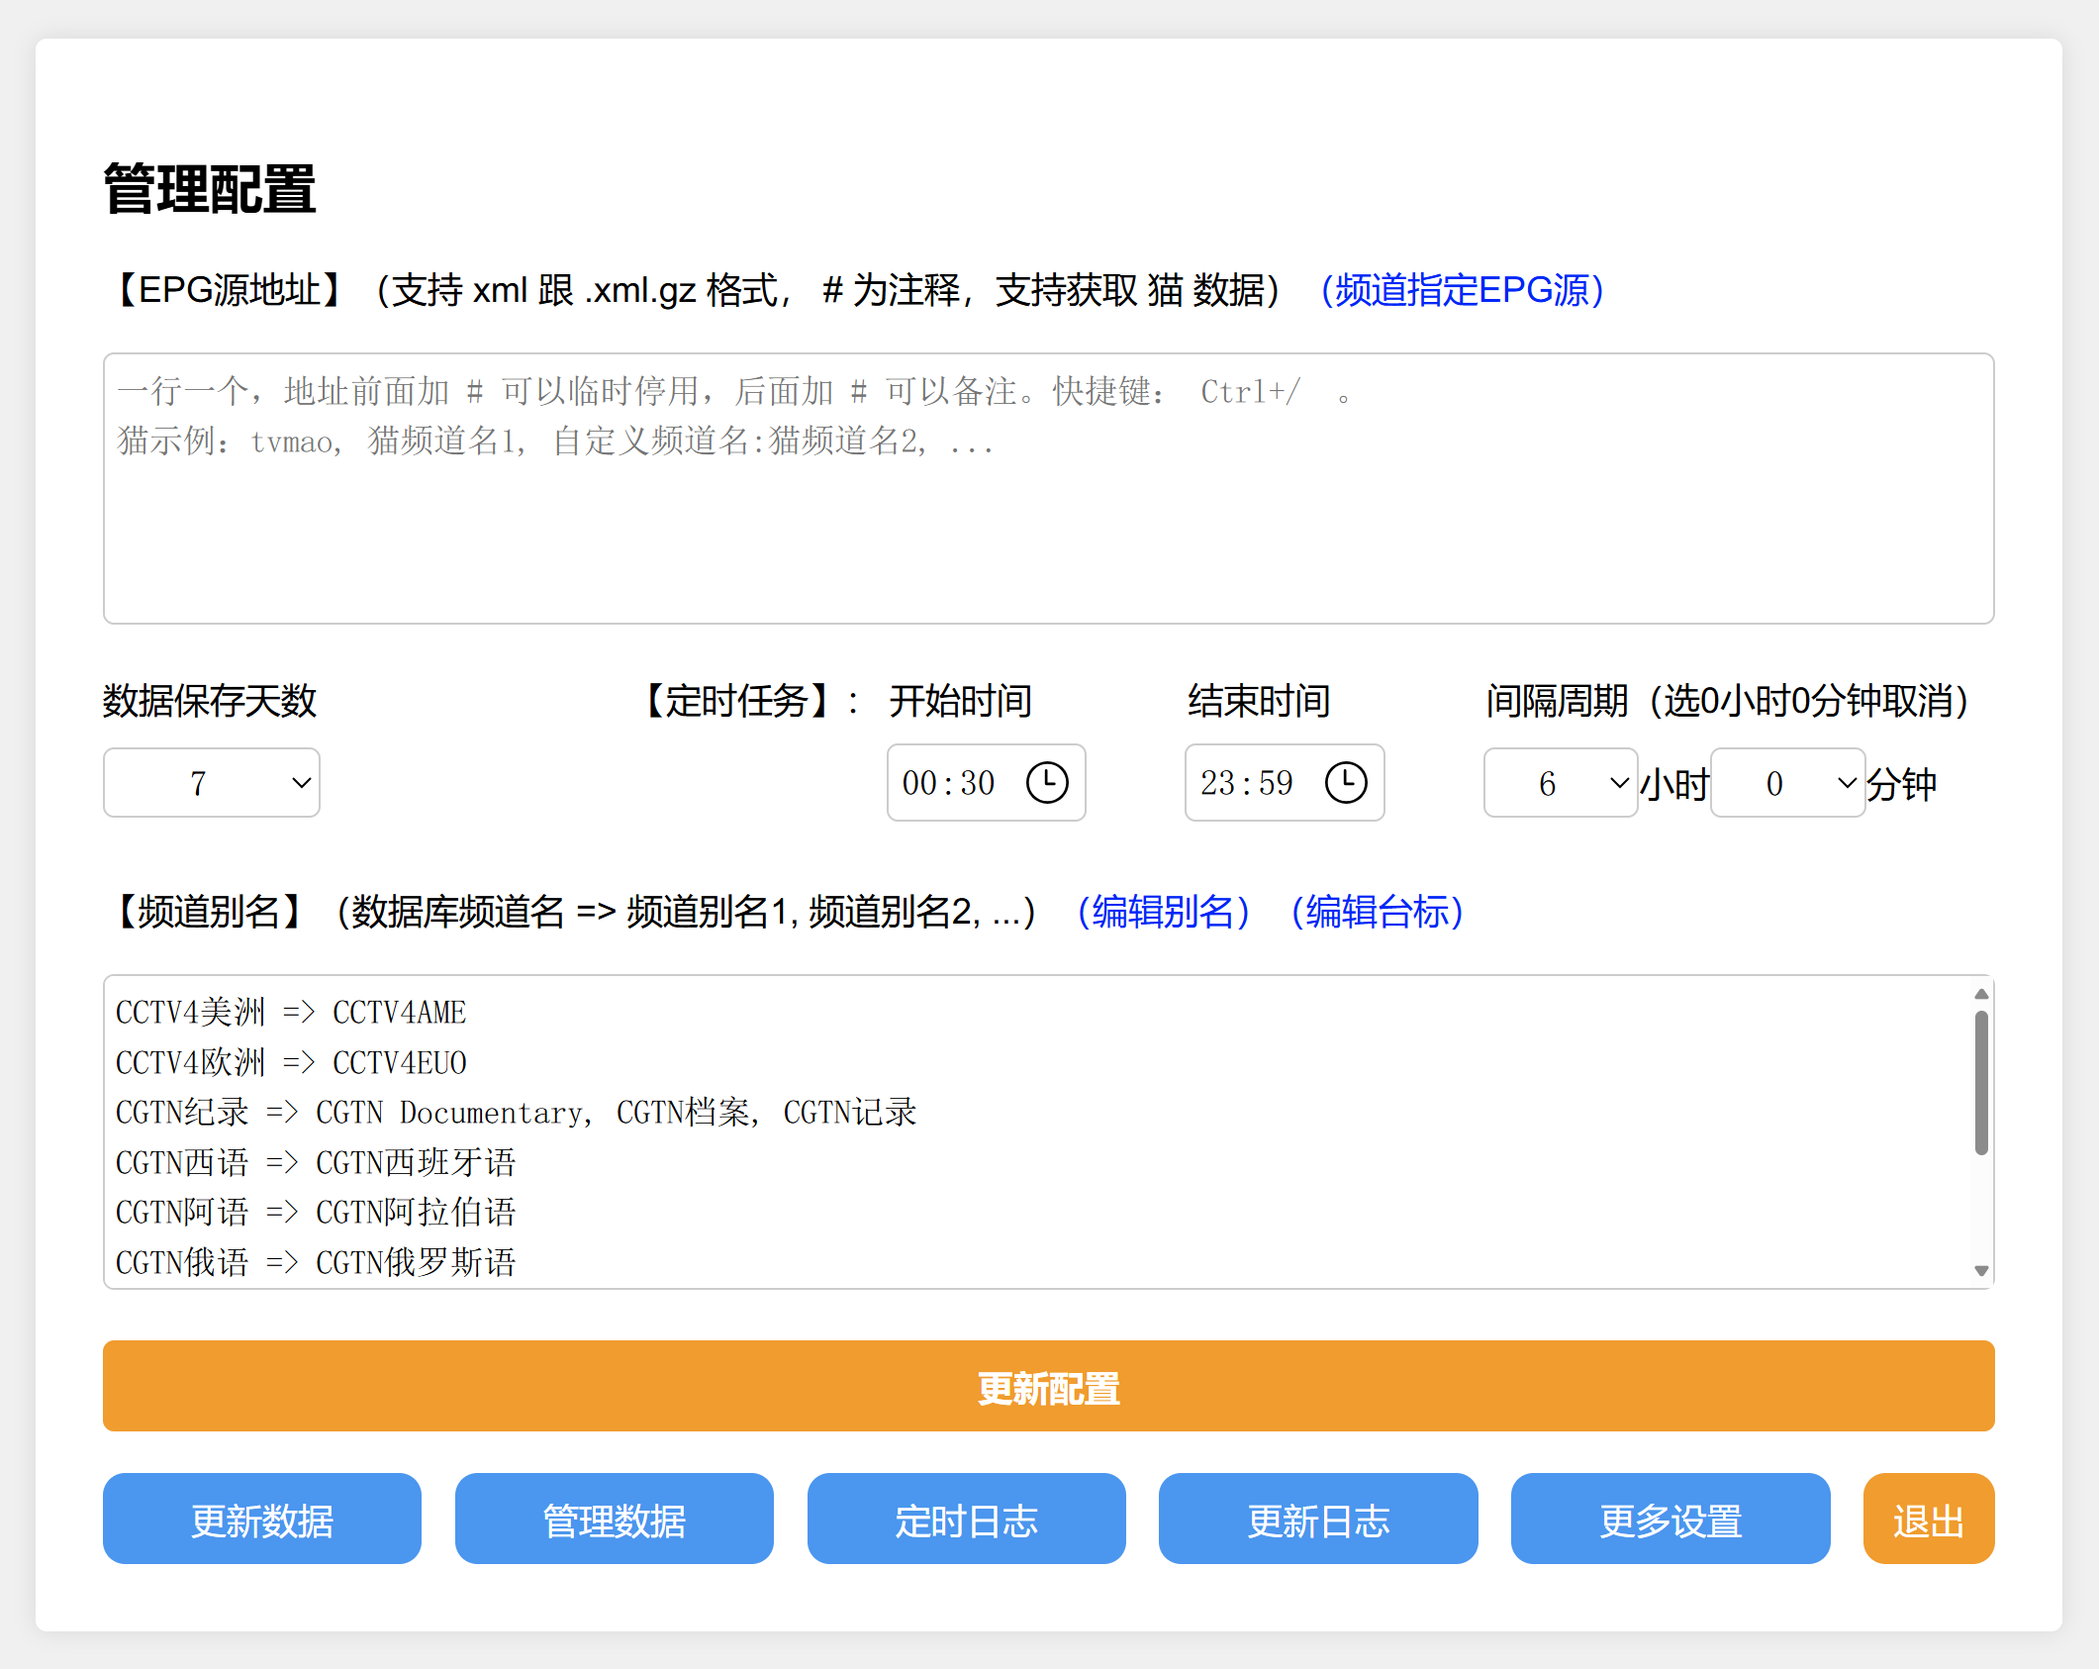
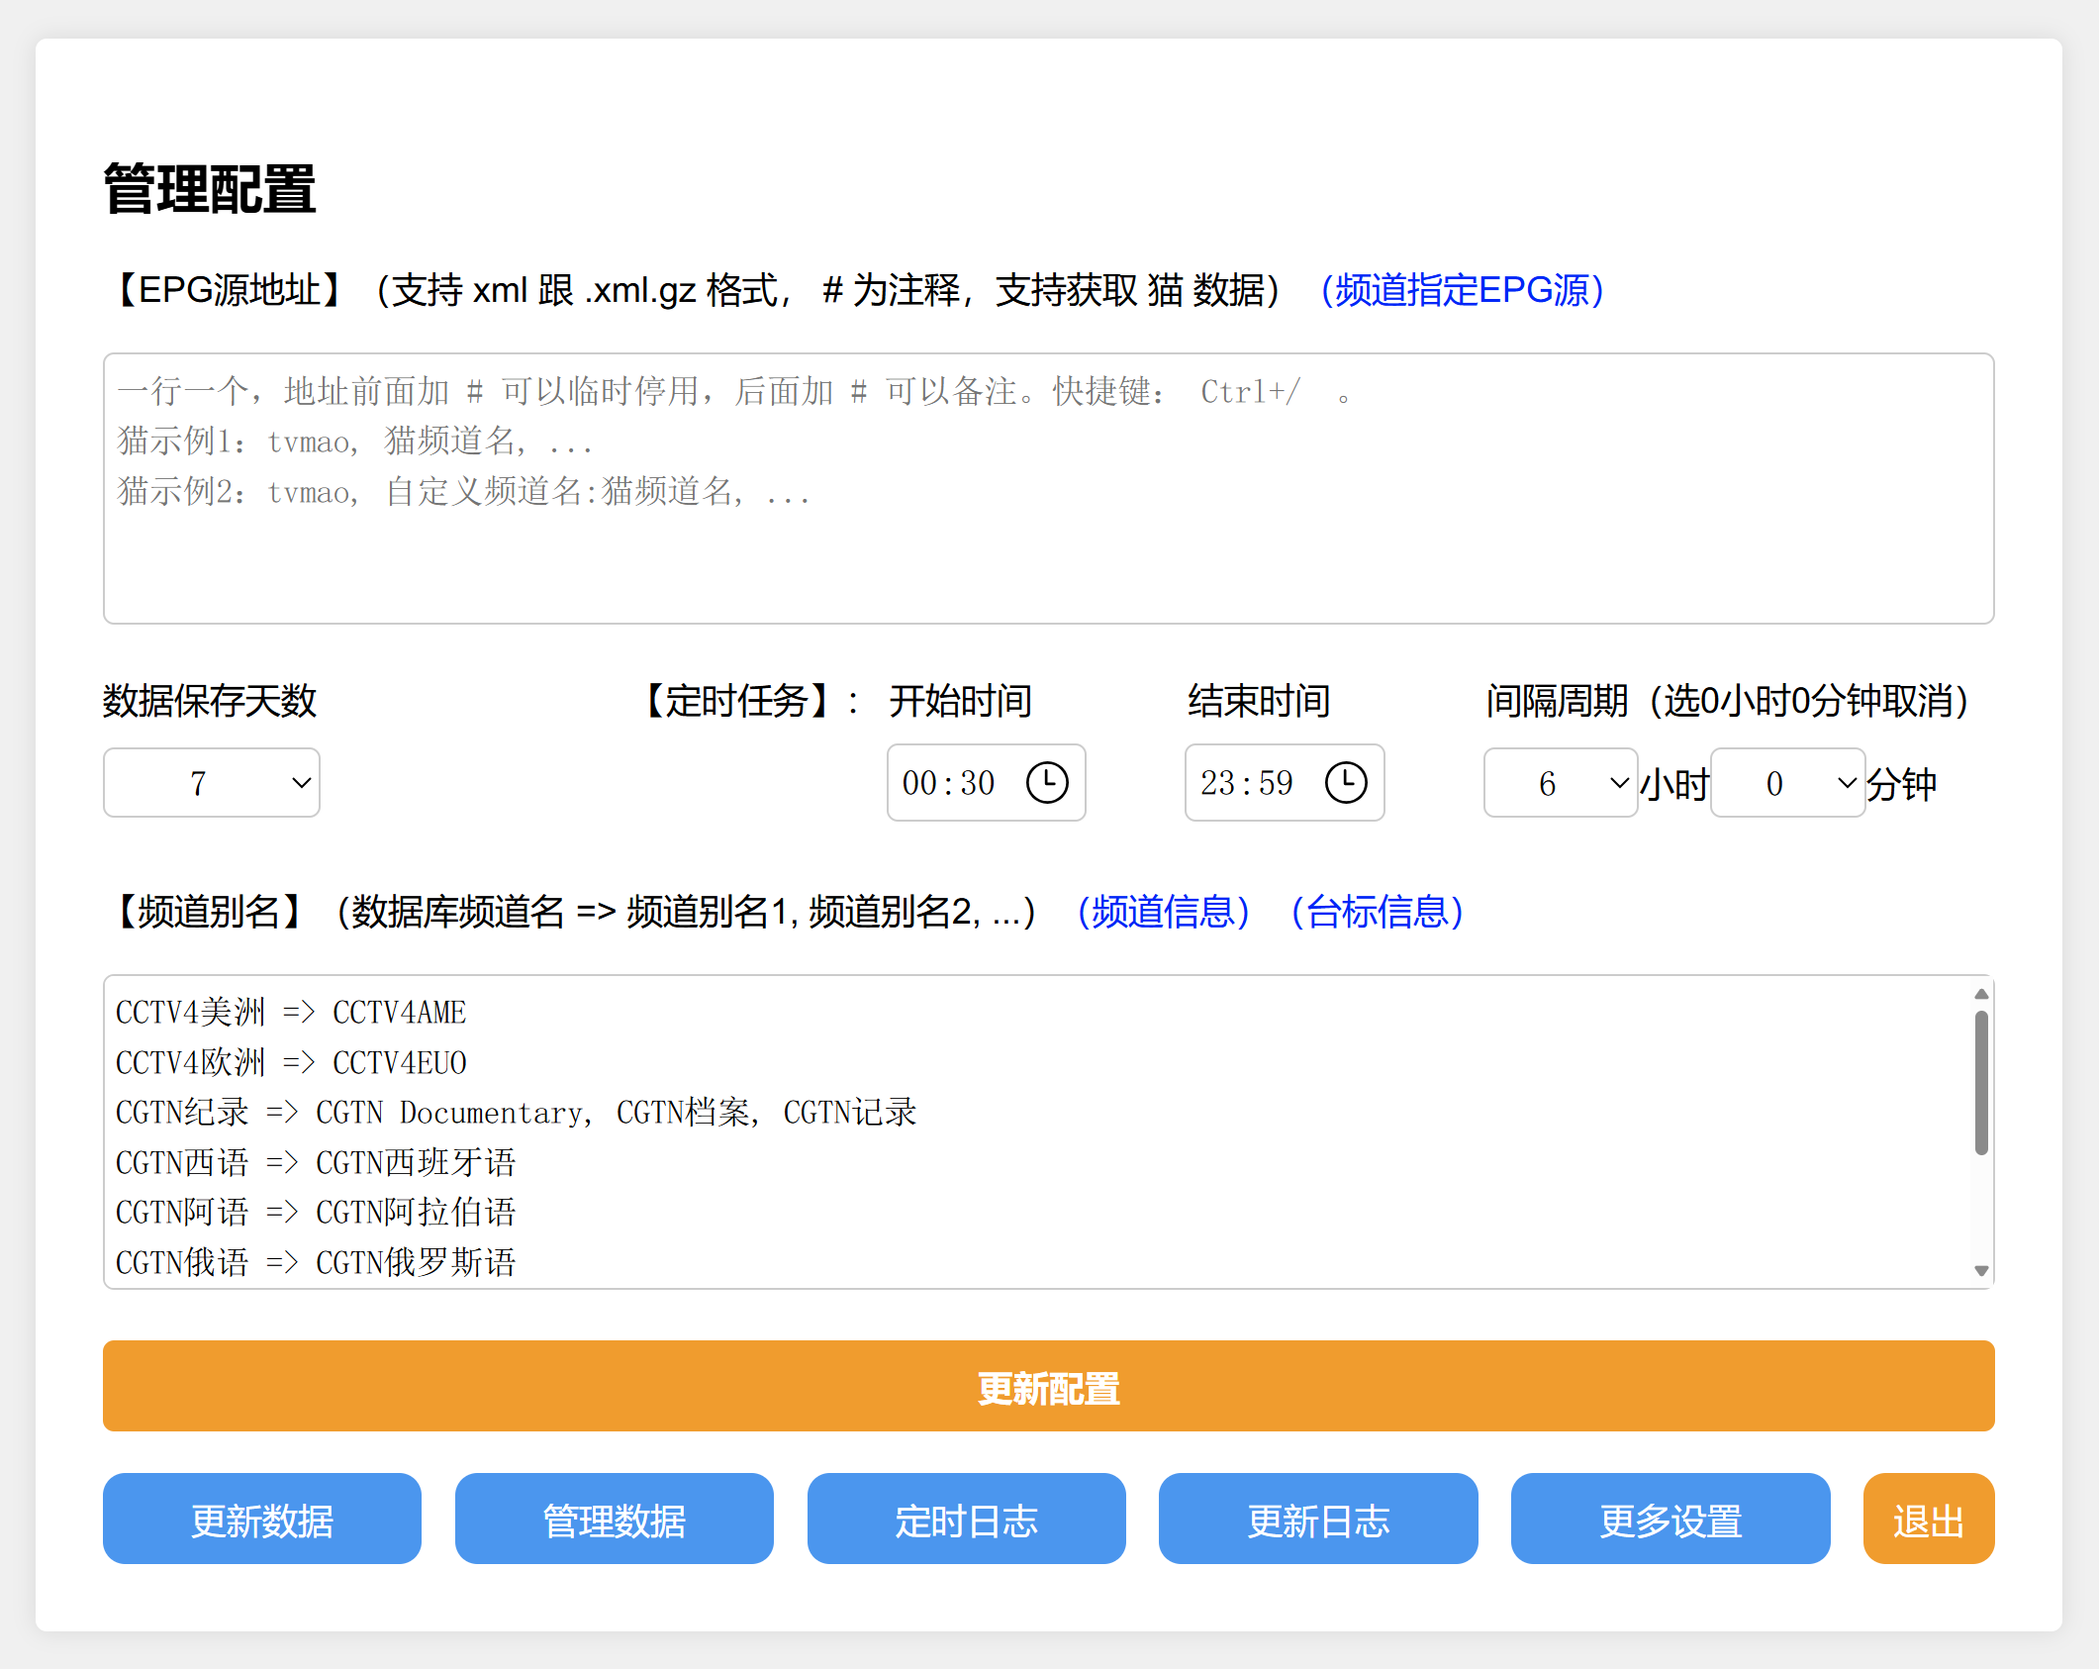
新增：查看频道节目表

Changed region(s): [[0.0622, 0.2467, 0.4356, 0.3084], [0.4979, 0.5243, 0.5912, 0.5552], [0.6223, 0.5243, 0.6846, 0.5552]]

diff --git a/epg/js/manage.js b/epg/js/manage.js
@@ -135,42 +135,63 @@ if (importMessage) {
     displayModal(importMessage);
 }
 
-function showModal(type, $popup = true) {
+function showModal(type, $popup = true, $data = '') {
     var modal, logSpan, logContent;
     switch (type) {
+        case 'epg':
+            modal = document.getElementById("epgModal");
+            logSpan = document.getElementsByClassName("close")[1];
+            fetchData("manage.php?get_epg_by_channel=true&channel=" + encodeURIComponent($data.channel) + "&date=" + $data.date, updateEpgContent);
+
+            // 更新日期的点击事件
+            const updateDate = function(offset) {
+                const currentDate = new Date(document.getElementById("epgDate").innerText);
+                currentDate.setDate(currentDate.getDate() + offset);
+                const newDateString = currentDate.toISOString().split('T')[0];
+                fetchData(`manage.php?get_epg_by_channel=true&channel=${encodeURIComponent($data.channel)}&date=${newDateString}`, updateEpgContent);
+                document.getElementById("epgDate").innerText = newDateString;
+            };
+
+            // 前一天和后一天的点击事件
+            document.getElementById('prevDate').onclick = () => updateDate(-1);
+            document.getElementById('nextDate').onclick = () => updateDate(1);
+
+            document.getElementById("channelModal").style.display = "none";
+            break;
+
         case 'update':
             modal = document.getElementById("updatelogModal");
-            logSpan = document.getElementsByClassName("close")[1];
+            logSpan = document.getElementsByClassName("close")[2];
             fetchData('manage.php?get_update_logs=true', updateLogTable);
             break;
         case 'cron':
             modal = document.getElementById("cronlogModal");
-            logSpan = document.getElementsByClassName("close")[2];
+            logSpan = document.getElementsByClassName("close")[3];
             fetchData('manage.php?get_cron_logs=true', updateCronLogContent);
             break;
         case 'channel':
             modal = document.getElementById("channelModal");
-            logSpan = document.getElementsByClassName("close")[3];
+            logSpan = document.getElementsByClassName("close")[4];
             fetchData('manage.php?get_channel=true', updateChannelList);
             break;
         case 'icon':
             modal = document.getElementById("iconModal");
-            logSpan = document.getElementsByClassName("close")[4];
+            logSpan = document.getElementsByClassName("close")[5];
             fetchData('manage.php?get_icon=true', updateIconList);
             break;
         case 'allicon':
             modal = document.getElementById("iconModal");
-            logSpan = document.getElementsByClassName("close")[4];
+            logSpan = document.getElementsByClassName("close")[5];
             fetchData('manage.php?get_icon=true&get_all_icon=true', updateIconList);
             break;
         case 'channelbindepg':
             modal = document.getElementById("channelBindEPGModal");
-            logSpan = document.getElementsByClassName("close")[5];
+            logSpan = document.getElementsByClassName("close")[6];
             fetchData('manage.php?get_channel_bind_epg=true', updateChannelBindEPGList);
             break;
         case 'channelmatch':
             modal = document.getElementById("channelMatchModal");
-            logSpan = document.getElementsByClassName("close")[6];
+            logSpan = document.getElementsByClassName("close")[7];
             fetchData('manage.php?get_channel_match=true', updateChannelMatchList);
             document.getElementById("moreSettingModal").style.display = "none";
             break;
@@ -179,7 +200,7 @@ function showModal(type, $popup = true) {
             updateMySQLFields();
             document.getElementById('db_type').addEventListener('change', updateMySQLFields);
             modal = document.getElementById("moreSettingModal");
-            logSpan = document.getElementsByClassName("close")[7];
+            logSpan = document.getElementsByClassName("close")[8];
             fetchData('manage.php?get_gen_list=true', updateGenList);
             break;
         default:
@@ -190,18 +211,20 @@ function showModal(type, $popup = true) {
         return;
     }
     modal.style.display = "block";
-    logSpan.onclick = function() {
+
+    function handleModalClose() {
         modal.style.display = "none";
         if (type === 'channelmatch') {
             showModal('moresetting');
+        } else if (type === 'epg') {
+            showModal('channel');
         }
     }
+    
+    logSpan.onclick = handleModalClose;
     window.onmousedown = function(event) {
         if (event.target === modal) {
-            modal.style.display = "none";
-            if (type === 'channelmatch') {
-                showModal('moresetting');
-            }
+            handleModalClose();
         }
     }
 }
@@ -214,6 +237,14 @@ function fetchData(endpoint, callback) {
             console.error('Error fetching log:', error);
             callback([]);
         });
+}
+
+function updateEpgContent(epgData) {
+    document.getElementById('epgTitle').innerHTML = epgData.channel;
+    document.getElementById('epgDate').innerHTML = epgData.date;
+    var epgContent = document.getElementById("epgContent");
+    epgContent.value = epgData.epg;
+    epgContent.scrollTop = 0;
 }
 
 function updateLogTable(logData) {
@@ -380,7 +411,10 @@ function filterChannels(type) {
         if (String(searchText).toUpperCase().includes(input)) {
             const row = document.createElement('tr');
             if (type === 'channel') {
-                row.innerHTML = `<td>${item.original}</td><td contenteditable="true">${item.mapped || ''}</td>`;
+                row.innerHTML = `<td style="color: blue; cursor: pointer;" 
+                                    onclick="showModal('epg', true, { channel: '${item.original}', date: '${new Date().toISOString().split('T')[0]}' })">
+                                    ${item.original} </td>
+                                <td contenteditable="true">${item.mapped || ''}</td>`;
                 row.querySelector('td[contenteditable]').addEventListener('input', function() {
                     item.mapped = this.textContent.trim();
                     document.getElementById(tableId).dataset[dataAttr] = JSON.stringify(allData);

diff --git a/epg/manage.php b/epg/manage.php
@@ -264,6 +264,8 @@ try {
             $action = 'get_cron_logs';
         } elseif (isset($_GET['get_channel'])) {
             $action = 'get_channel';
+        } elseif (isset($_GET['get_epg_by_channel'])) {
+            $action = 'get_epg_by_channel';
         } elseif (isset($_GET['get_icon'])) {
             $action = 'get_icon';
         } elseif (isset($_GET['get_channel_bind_epg'])) {
@@ -314,6 +316,25 @@ try {
                     'channels' => $mappedChannels,
                     'count' => count($mappedChannels)
                 ];
+                break;
+
+            case 'get_epg_by_channel':
+                // 查询
+                $channel = urldecode($_GET['channel']);
+                $date = urldecode($_GET['date']);
+                $stmt = $db->prepare("SELECT epg_diyp FROM epg_data WHERE channel = :channel AND date = :date");
+                $stmt->execute([':channel' => $channel, ':date' => $date]);
+                $result = $stmt->fetch(PDO::FETCH_ASSOC); // 获取单条结果            
+                if ($result) {
+                    $epgOutput = "";
+                    $epgData = json_decode($result['epg_diyp'], true);                    
+                    foreach ($epgData['epg_data'] as $epgItem) {
+                        $epgOutput .= "{$epgItem['start']} {$epgItem['title']}\n";
+                    }            
+                    $dbResponse = ['channel' => $channel, 'date' => $date, 'epg' => trim($epgOutput)];
+                } else {
+                    $dbResponse = ['channel' => $channel, 'date' => $date, 'epg' => '无节目信息'];
+                }
                 break;
 
             case 'get_icon':
@@ -714,7 +735,8 @@ try {
 
         <label for="xml_urls">【EPG源地址】（支持 xml 跟 .xml.gz 格式， # 为注释，支持获取 猫 数据）</label><span id="channelbind" onclick="showModal('channelbindepg')" style="color: blue; cursor: pointer;">（频道指定EPG源）</span><br><br>
         <textarea placeholder="一行一个，地址前面加 # 可以临时停用，后面加 # 可以备注。快捷键： Ctrl+/  。
-猫示例：tvmao, 猫频道名1, 自定义频道名:猫频道名2, ..." id="xml_urls" name="xml_urls" style="height: 122px;"><?php echo implode("\n", array_map('trim', $Config['xml_urls'])); ?></textarea><br><br>
+猫示例1：tvmao, 猫频道名, ...
+猫示例2：tvmao, 自定义频道名:猫频道名, ..." id="xml_urls" name="xml_urls" style="height: 122px;"><?php echo implode("\n", array_map('trim', $Config['xml_urls'])); ?></textarea><br><br>
 
         <div class="form-row">
             <label for="days_to_keep" class="label-days-to-keep">数据保存天数</label>
@@ -754,7 +776,7 @@ try {
         <div class="flex-container">
             <div class="flex-item" style="width: 100%;">
                 <label>
-                    【频道别名】（数据库频道名 => 频道别名1, 频道别名2, ...）<span id="dbChannelName" onclick="showModal('channel')" style="color: blue; cursor: pointer;">（编辑别名）</span><span id="dbChannelName" onclick="showModal('icon')" style="color: blue; cursor: pointer;">（编辑台标）</span>
+                    【频道别名】（数据库频道名 => 频道别名1, 频道别名2, ...）<span id="dbChannelName" onclick="showModal('channel')" style="color: blue; cursor: pointer;">（频道信息）</span><span id="dbChannelName" onclick="showModal('icon')" style="color: blue; cursor: pointer;">（台标信息）</span>
                 </label><br><br>
                 <textarea id="channel_mappings" name="channel_mappings" style="height: 142px;"><?php echo implode("\n", array_map(function($search, $replace) { return $search . ' => ' . $replace; }, array_keys($Config['channel_mappings']), $Config['channel_mappings'])); ?></textarea><br><br>
             </div>
@@ -785,6 +807,19 @@ try {
     <div class="modal-content config-modal-content">
         <span class="close">&times;</span>
         <p id="modalMessage"></p>
+    </div>
+</div>
+
+<!-- 频道 EPG 模态框 -->
+<div id="epgModal" class="modal">
+    <div class="modal-content epg-modal-content">
+        <span class="close">&times;</span>
+        <h2 id="epgTitle">频道名</h2>
+        <span id="epgDate">日期</span>
+        <span id="prevDate" style="cursor: pointer; color: blue; margin-left: 10px;">&#9664; 前一天</span>
+        <span id="nextDate" style="cursor: pointer; color: blue; margin-left: 10px;">后一天 &#9654;</span>
+        <br><br>
+        <textarea id="epgContent" readonly style="width: 100%; height: 400px;"></textarea>
     </div>
 </div>
 
@@ -856,11 +891,11 @@ try {
             </div>
             <div class="tooltip" style="width:auto; margin-right: 10px;">
                 <button id="deleteUnusedIcons" type="button" onclick="deleteUnusedIcons()">清理</button>
-                <span class="tooltiptext">清理未在列表中<br>使用的台标文件</span>
+                <span class="tooltiptext">清理未使用<br>服务器台标文件</span>
             </div>
             <div class="tooltip" style="width:auto; margin-right: 10px;">
                 <button id="showAllIcons" type="button" onclick="showModal('allicon')">全显</button>
-                <span class="tooltiptext">同时显示<br>无节目表内置台标</span>
+                <span class="tooltiptext">同时显示<br>无节目单台标</span>
             </div>
             <div class="tooltip" style="width:auto;">
                 <button id="uploadAllIcons" type="button" onclick="uploadAllIcons();">转存</button>

diff --git a/CHANGELOG.md b/CHANGELOG.md
@@ -1,9 +1,29 @@
+## 2024-9-29
+
+1. 修复：导入文件大于2M时异常
+2. 优化：台标上传路径
+3. 优化：频道别名台标匹配逻辑
+4. 优化：内置台标列表
+
+## 2024-9-26
+
+1. 新增：同时显示无节目表的内置台标
+2. 优化：台标转存逻辑
+3. 优化：频道模糊匹配
+
+## 2024-9-24
+
+1. 新增：无节目表频道的台标模糊匹配
+2. 优化：默认台标列表
+3. 优化：新建自定义台标提示
+4. 优化：转存台标提示，转存进度显示
+ 
 ## 2024-9-22
 
-1. 优化：更改台标 `CDN` 源，并替换为裁切版本
-2. 修复：导入数据路径错误
-3. 修复：定时任务误删本地台标
-4. 修复：超级直播返回字段
+7. 优化：更改台标 `CDN` 源，并替换为裁切版本
+8. 修复：导入数据路径错误
+9.  修复：定时任务误删本地台标
+10. 修复：超级直播返回字段
 
 ## 2024-9-21：
 
